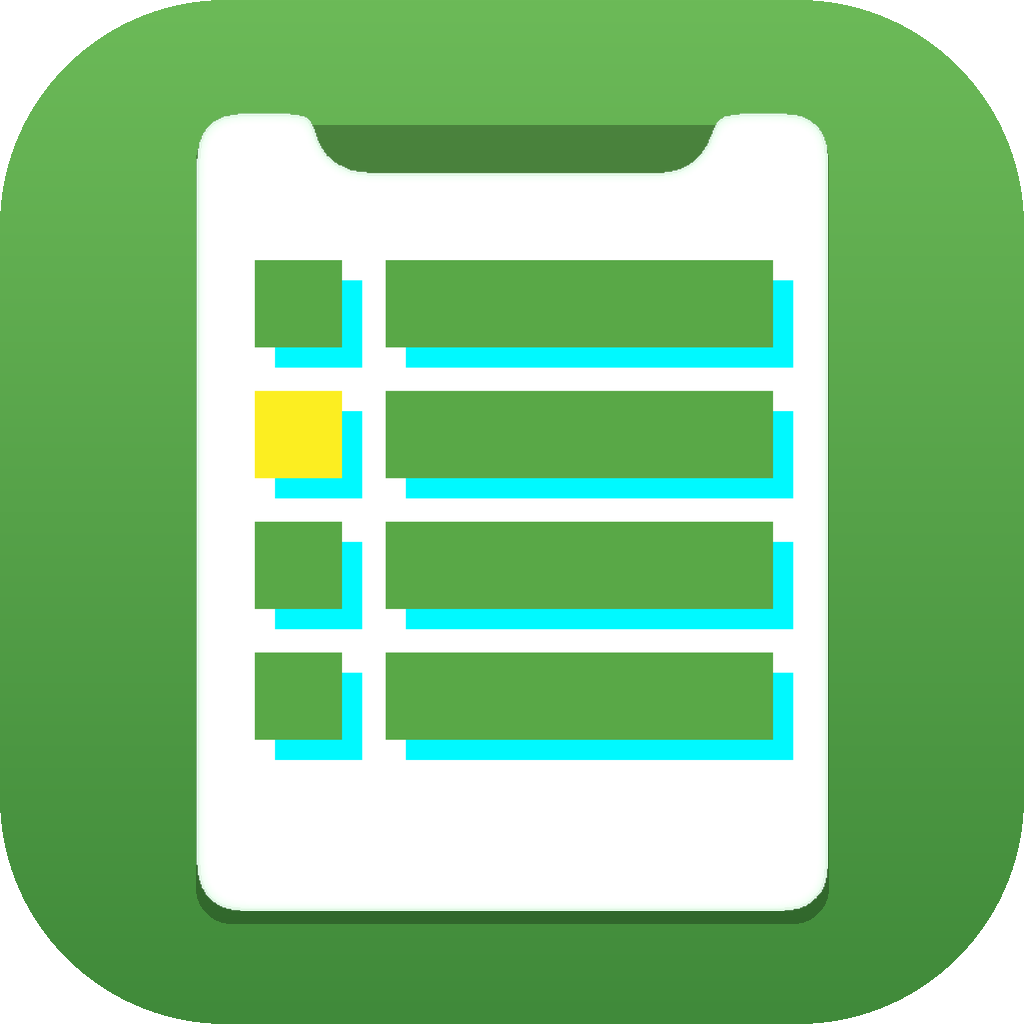
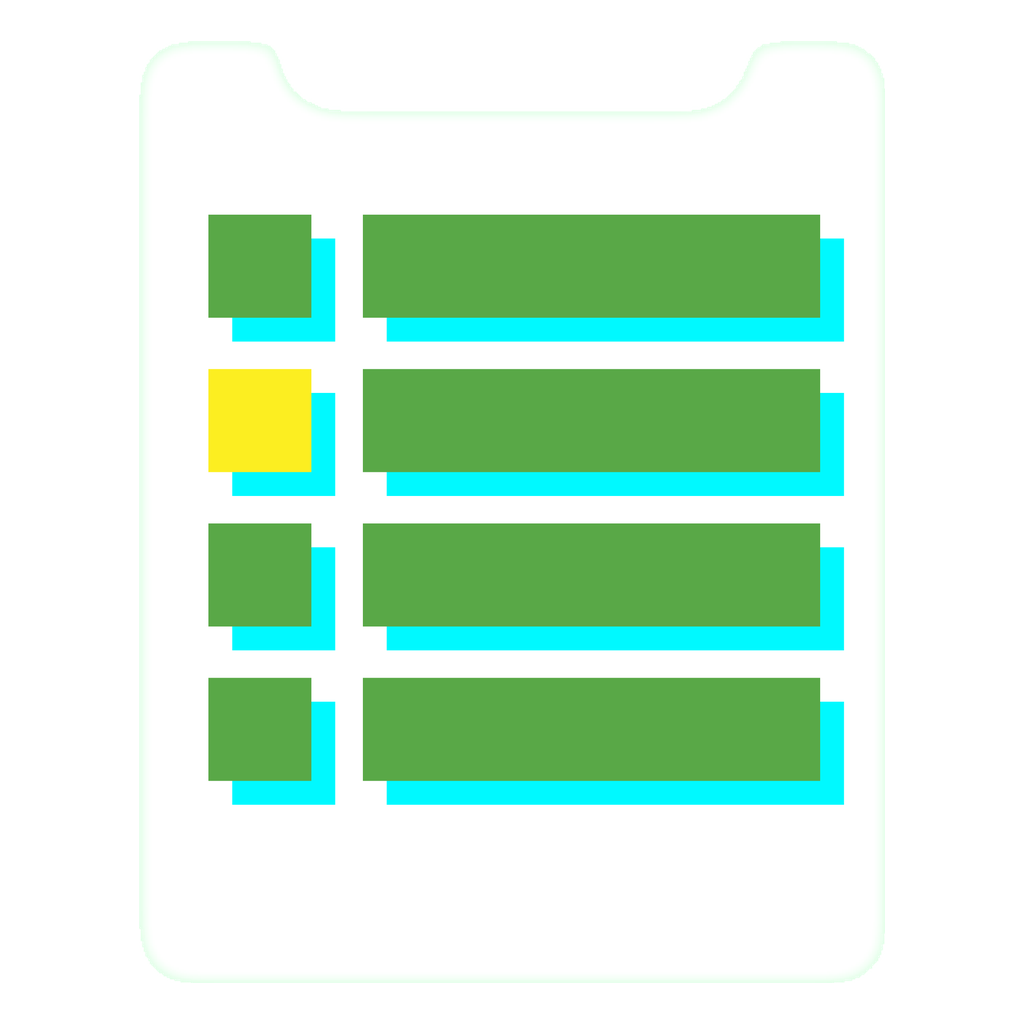
0.11.4：图标改成纯透明清单卡；修单窗口模式下不显示分类名（原来只有 PiP 窗口才画标题）

diff --git a/client.js b/client.js
@@ -57,6 +57,10 @@ window.__ModuleLoader__.load({
     '.wl-icon.is-mini:hover{background:var(--dsw-alias-interactive-bg-hover,rgba(0,0,0,.06))}',
     '.wl-mini{display:flex;flex-direction:column;height:100vh;width:100%;box-sizing:border-box;padding:6px 10px 10px;overflow:hidden}',
     '.wl-mini.is-single{height:100%;padding:8px 10px 10px}',
+    // 256×256 很窄：分类名优先，项目名让位
+    '.wl-mini.is-single .wl-mini-head{gap:6px;padding:2px 0 6px}',
+    '.wl-mini.is-single .wl-mini-proj{display:none}',
+    '.wl-mini.is-single .wl-mini-name{font-size:13px}',
     '.wl-mini-head{display:flex;align-items:center;gap:8px;padding:4px 0 8px;border-bottom:1px solid var(--dsw-alias-border-l2,#e2e6eb);flex:none}',
     '.wl-mini-name{font-weight:600;overflow:hidden;text-overflow:ellipsis;white-space:nowrap}',
     '.wl-mini-titles{display:flex;flex-direction:column;min-width:0;gap:1px}',
@@ -568,13 +572,8 @@ window.__ModuleLoader__.load({
         return
       }
       var category = found.category
-      if (mini.win === null) {
-        // 页面内小窗：标题和关闭按钮在顶部标题条里，这里只补一行统计
-        mini.root.appendChild(h('div', { class: 'wl-mini-meta' },
-          h('span', { class: 'wl-mini-count', text: pct(category.progress) + ' · ' + category.openCount + '/' + category.taskCount }),
-          bar(category.progress, '96px')
-        ))
-      } else {
+      if (mini.win !== null || mini.single === true) {
+        // PiP 小窗、单窗口模式：都要自己画出分类名（单窗口模式下外面没有别的标题条了）
         mini.root.appendChild(h('div', { class: 'wl-mini-head' },
           h('span', { class: 'wl-dot', style: { background: category.color } }),
           h('span', { class: 'wl-mini-titles' },
@@ -587,6 +586,12 @@ window.__ModuleLoader__.load({
             title: '关掉小窗，回主界面',
             onclick: function () { closeMini() },
           }, '✕')
+        ))
+      } else {
+        // 页面内小窗：标题和关闭按钮在顶部标题条里，这里只补一行统计
+        mini.root.appendChild(h('div', { class: 'wl-mini-meta' },
+          h('span', { class: 'wl-mini-count', text: pct(category.progress) + ' · ' + category.openCount + '/' + category.taskCount }),
+          bar(category.progress, '96px')
         ))
       }
       var list = h('div', { class: 'wl-mini-list' })

diff --git a/ui/app.js b/ui/app.js
@@ -37,6 +37,10 @@
     '.wl-icon.is-mini:hover{background:var(--dsw-alias-interactive-bg-hover,rgba(0,0,0,.06))}',
     '.wl-mini{display:flex;flex-direction:column;height:100vh;width:100%;box-sizing:border-box;padding:6px 10px 10px;overflow:hidden}',
     '.wl-mini.is-single{height:100%;padding:8px 10px 10px}',
+    // 256×256 很窄：分类名优先，项目名让位
+    '.wl-mini.is-single .wl-mini-head{gap:6px;padding:2px 0 6px}',
+    '.wl-mini.is-single .wl-mini-proj{display:none}',
+    '.wl-mini.is-single .wl-mini-name{font-size:13px}',
     '.wl-mini-head{display:flex;align-items:center;gap:8px;padding:4px 0 8px;border-bottom:1px solid var(--dsw-alias-border-l2,#e2e6eb);flex:none}',
     '.wl-mini-name{font-weight:600;overflow:hidden;text-overflow:ellipsis;white-space:nowrap}',
     '.wl-mini-titles{display:flex;flex-direction:column;min-width:0;gap:1px}',
@@ -548,13 +552,8 @@
         return
       }
       var category = found.category
-      if (mini.win === null) {
-        // 页面内小窗：标题和关闭按钮在顶部标题条里，这里只补一行统计
-        mini.root.appendChild(h('div', { class: 'wl-mini-meta' },
-          h('span', { class: 'wl-mini-count', text: pct(category.progress) + ' · ' + category.openCount + '/' + category.taskCount }),
-          bar(category.progress, '96px')
-        ))
-      } else {
+      if (mini.win !== null || mini.single === true) {
+        // PiP 小窗、单窗口模式：都要自己画出分类名（单窗口模式下外面没有别的标题条了）
         mini.root.appendChild(h('div', { class: 'wl-mini-head' },
           h('span', { class: 'wl-dot', style: { background: category.color } }),
           h('span', { class: 'wl-mini-titles' },
@@ -567,6 +566,12 @@
             title: '关掉小窗，回主界面',
             onclick: function () { closeMini() },
           }, '✕')
+        ))
+      } else {
+        // 页面内小窗：标题和关闭按钮在顶部标题条里，这里只补一行统计
+        mini.root.appendChild(h('div', { class: 'wl-mini-meta' },
+          h('span', { class: 'wl-mini-count', text: pct(category.progress) + ' · ' + category.openCount + '/' + category.taskCount }),
+          bar(category.progress, '96px')
         ))
       }
       var list = h('div', { class: 'wl-mini-list' })
